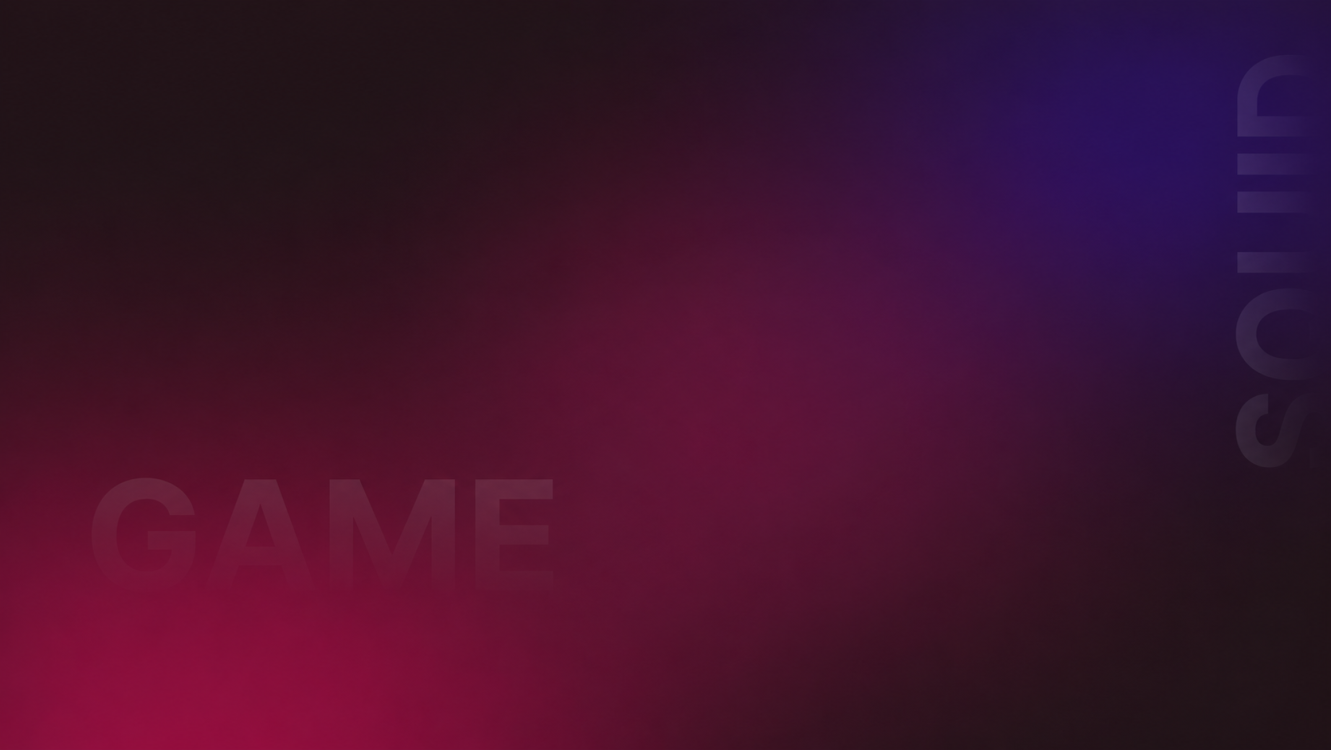
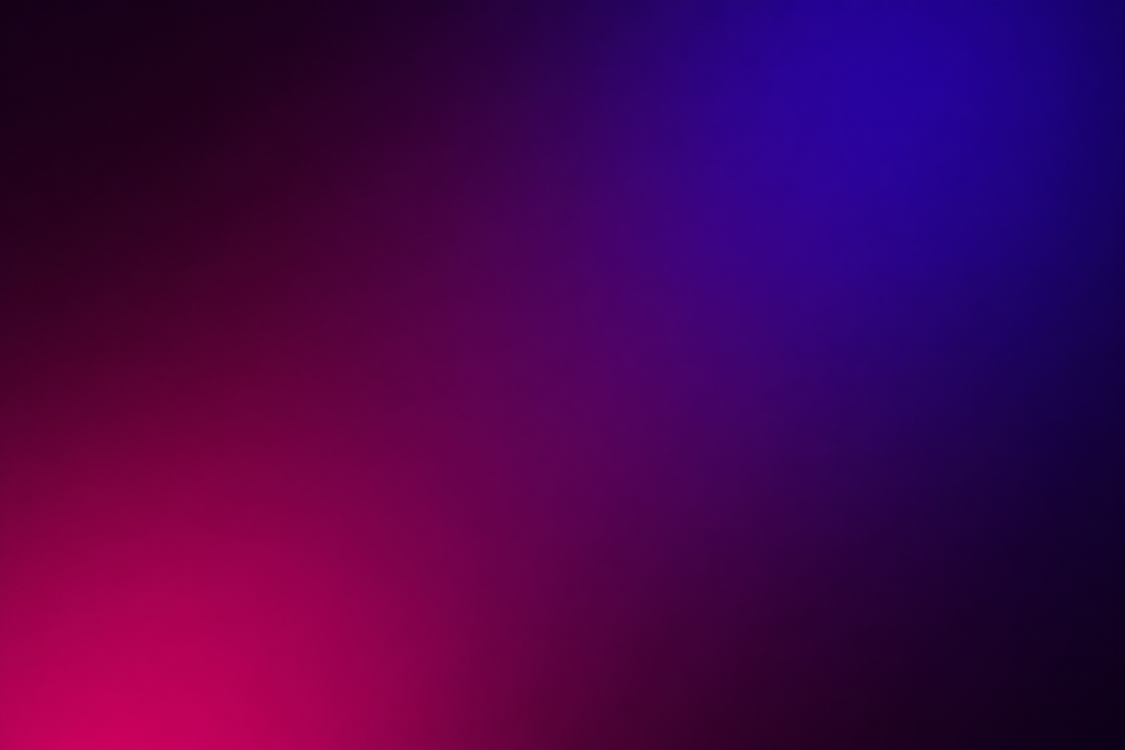
right section ui, scroll hr changed to div, and multiple other css updated but still need more changes

diff --git a/style.css b/style.css
@@ -2,7 +2,9 @@
     --white: #ffffff;
     --black: #000000;
     --gradient1: linear-gradient(90deg, #ff2d75, #ff8a00);
+    --gradient2: linear-gradient(to bottom, #ff2d75, #ff8a00);
     --border-pink: rgba(255, 45, 117, 0.4);
+    --bg-glass: linear-gradient(135deg, #ff006e, #1a001f, #5b006b);
 
 }
 
@@ -23,6 +25,7 @@ main {
     min-height: 100vh;
     background-image: url('assets/images/background.png');
     background-size: cover;
+    background-position: center;
 }
 
 header {
@@ -70,18 +73,22 @@ header .link i {
 
 .hero-left,
 .hero-right {
-    width: 50%;
+    width: 40%;
+    height: 40%;
 }
 
 .hero-left {
     display: flex;
+    justify-content: flex-end;
+    align-items: flex-start;
+}
+
+.hero-left .hero-content {
+    display: flex;
     flex-direction: column;
     align-items: flex-start;
     justify-content: flex-start;
-    gap: 30px;
-    padding-left: 15%;
-    padding-block: 20px;
-
+    gap: 10px;
 }
 
 .hero-left img {
@@ -96,8 +103,8 @@ header .link i {
 
 .hero-left .links {
     display: flex;
-    align-items: center;
-    justify-content: flex-left;
+    align-items: flex-start;
+    justify-content: flex-start;
     gap: 10px;
 }
 
@@ -108,9 +115,9 @@ header .link i {
     display: flex;
     align-items: center;
     justify-content: center;
-    gap:5px;
-    width:150px;
-    height:40px;
+    gap: 5px;
+    width: 150px;
+    height: 40px;
 }
 
 .hero-left .links .play-now {
@@ -137,10 +144,9 @@ header .link i {
 
 .hero-right {
     display: flex;
-    align-items: center;
+    align-items: flex-start;
     justify-content: center;
     padding: 20px;
-    color: var(--white);
 }
 
 .hero-right .scroll {
@@ -148,23 +154,25 @@ header .link i {
     flex-direction: column;
     align-items: center;
     justify-content: center;
-    gap: 20px;
+    gap: 32px;
 }
 
-.hero-right .scroll h4{
+.hero-right .scroll h4 {
     color: white;
-    letter-spacing: 5px;
     transform: rotate(270deg);
+    font-size: 12px;
+    opacity: 0.6;
 }
 
-.hero-right hr {
+.hero-right .scroll .line {
     width: 1px;
-    background: var(--gradient1);
-    height: 100px;
+    background: var(--gradient2);
+    height: 60px;
+    opacity: 0.4;
 }
 
 .hero-right .fighter {
-    width: 50%;
+    height: 450px;
 }
 
 .hero-right .socials {
@@ -176,7 +184,7 @@ header .link i {
 }
 
 .hero-right .socials img {
-    width: 50px;
+    width: 20px;
 }
 
 .thumbnails {
@@ -185,17 +193,18 @@ header .link i {
     align-items: center;
     gap: 20px;
     padding: 20px;
-    background-image: url('assets/images/bg.webp');
-    border-radius: 12px;
-    position: absolute;
+    background: var(--bg-glass);
+    border-radius: 16px;
     z-index: 10;
+    position: absolute;
     left: 50%;
-    transform: translate(-50%);
-    bottom: 10%;
+    transform: translateX(-50%);
+    bottom: 2%;
 }
 
 .thumbnails .thumbnail {
-    width: 300px;
+    width: 250px;
+    aspect-ratio: 16/9;
     position: relative;
 }
 

diff --git a/index.html b/index.html
@@ -28,19 +28,21 @@
         </header>
         <section class="hero">
             <div class="hero-left">
-                <img src="assets/images/logo-large.webp" alt="">
-                <p>Action / Thriller / Drama Series directed by Dong-hyuk Hwang<br />
-                    Season 1:9 Episodes</p>
-                <div class="links">
-                    <button class="btn play-now"><i class="ri-play-fill"></i>Play Now</button>
-                    <button class="btn watch-trailer"><i class="ri-play-line"></i>Watch Trailer</button>
+                <div class="hero-content">
+                    <img src="assets/images/logo-large.webp" alt="">
+                    <p>Action / Thriller / Drama Series directed by Dong-hyuk Hwang<br />
+                        Season 1:9 Episodes</p>
+                    <div class="links">
+                        <button class="btn play-now"><i class="ri-play-fill"></i>Play Now</button>
+                        <button class="btn watch-trailer"><i class="ri-play-line"></i>Watch Trailer</button>
+                    </div>
                 </div>
             </div>
 
             <div class="hero-right">
                 <div class="scroll">
                     <h4>SCROLL</h4>
-                    <hr>
+                    <div class="line"></div>
                 </div>
                 <img class="fighter" src="assets/images/fighter.webp" alt="fighter">
                 <div class="socials">
